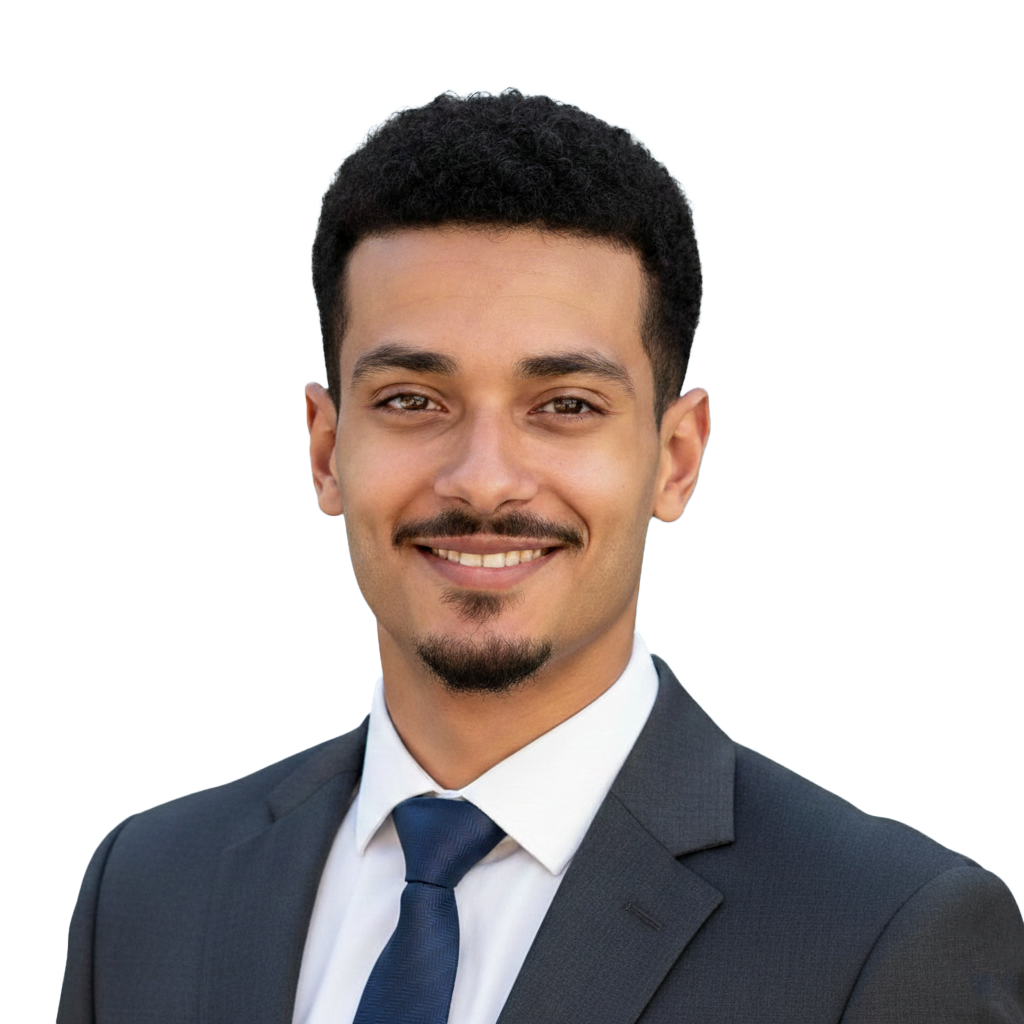
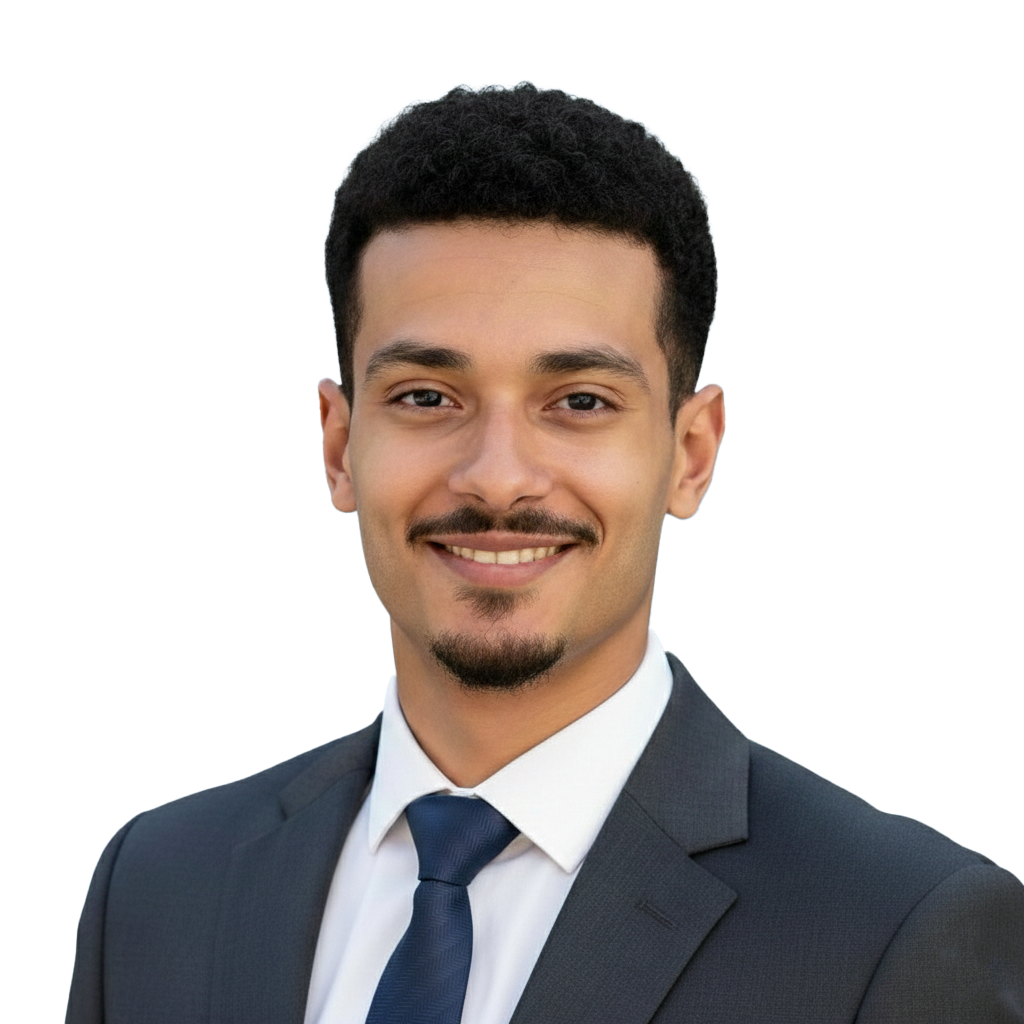
changed pfp & small changes

diff --git a/CSS/style.css b/CSS/style.css
@@ -280,6 +280,29 @@ span { color: var(--main-color); }
     transform: scale(0.90);
 }
 
+/* 1. عرض الـ Scrollbar كله */
+::-webkit-scrollbar {
+    width: 12px; /* عرض البار */
+}
+
+/* 2. الخلفية بتاعة الـ Scrollbar (المكان اللي بيمشي فيه) */
+::-webkit-scrollbar-track {
+    background: var(--bg-color); /* بنخليه نفس لون خلفية الموقع عشان يندمج */
+}
+
+/* 3. الجزء اللي بيتحرك (الـ Handle) */
+::-webkit-scrollbar-thumb {
+    background: linear-gradient(transparent, var(--main-color)); /* تدرج لوني نيون */
+    border-radius: 10px; /* خليه دائري من الحواف */
+    border: 3px solid var(--bg-color); /* بنعمل مسافة بسيطة عشان يبان شيك */
+    box-shadow: 0 0 10px var(--main-color); /* تأثير النور */
+}
+
+/* 4. لما تحط الماوس على الـ Scrollbar ينور أكتر */
+::-webkit-scrollbar-thumb:hover {
+    background: linear-gradient(transparent, #00d9ff); /* درجة أفتح شوية من اللبني النيون */
+}
+
 ::-webkit-scrollbar {
     width: 12px;
 }

diff --git a/index.html b/index.html
@@ -51,7 +51,9 @@
 
     <section id="about" class="section">
         <h2 data-aos="fade-down">About <span>Me</span></h2>
-        <p data-aos="fade-up">I build modern, high-performance, maintainable and stable Android applications using Kotlin and Java architectures, Strong at understanding requirements and delivering projects exactly as expected, with a creative touch.</p>
+        <p data-aos="fade-up">I build modern, high-performance, maintainable, and stable Android applications using Kotlin and Java, applying clean architecture principles and industry best practices.
+            I focus on writing clean, readable, and scalable code while ensuring smooth user experiences.
+            Strong at understanding requirements and delivering projects exactly as expected with creativity, precision, and problem-solving skills that add real value to every project.</p>
     </section>
 
     <div class="divider" data-aos="zoom-in"></div>
